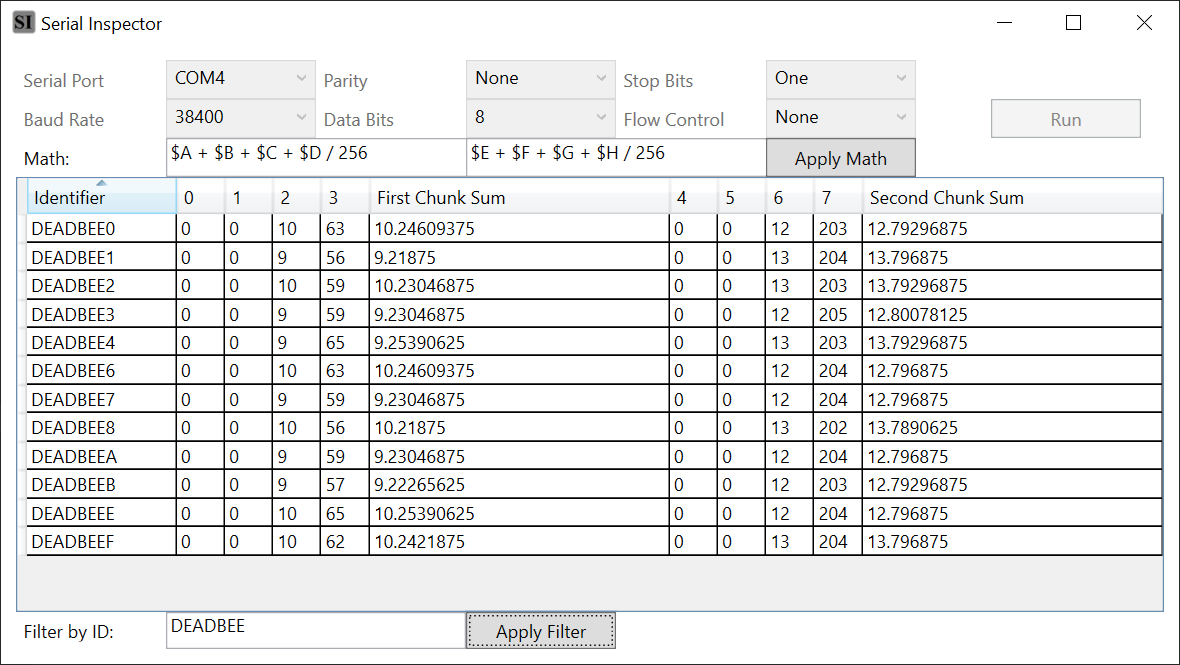
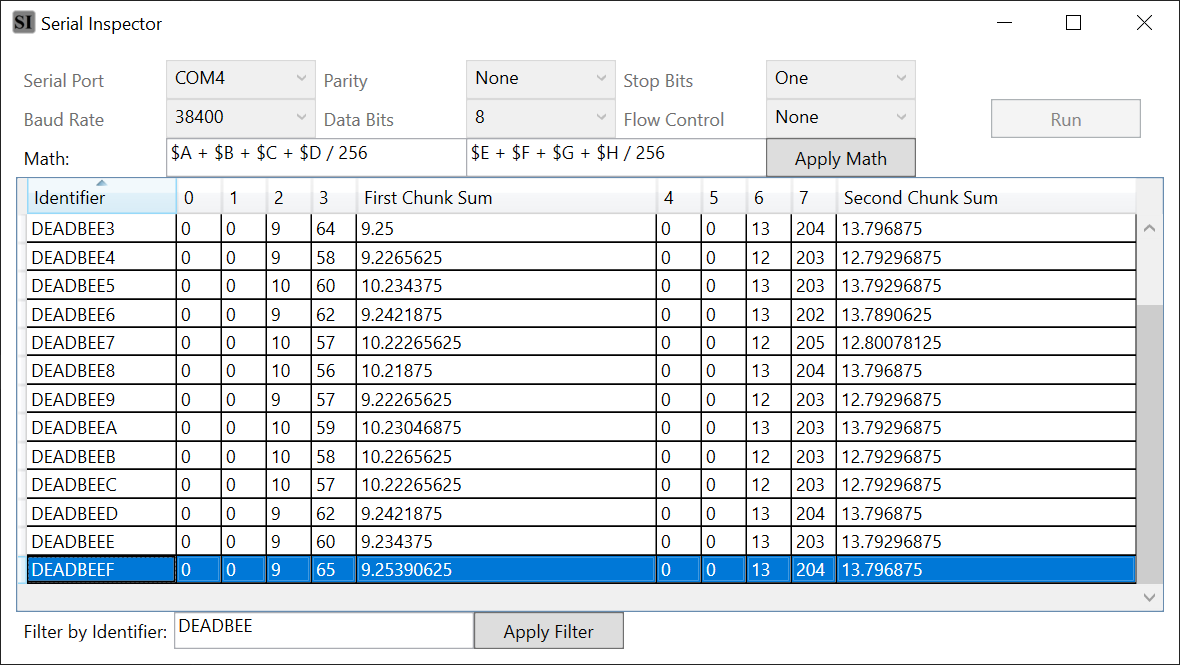
Update ReadMe.md & Screenshot.png

diff --git a/ReadMe.md b/ReadMe.md
@@ -1,6 +1,6 @@
-# SerialInspector
+# Serial Inspector
 
-- Just a quickly made tool to help reverse engineer certain CAN bus messages.
+- A simple tool to help a friend reverse engineer certain CAN bus messages...
 - Consist of a C# WPF GUI and an Arduino testbed project (FakeDataGenerator)
 
 ![screenshot](https://raw.githubusercontent.com/visuve/SerialInspector/master/Screenshot.png)
